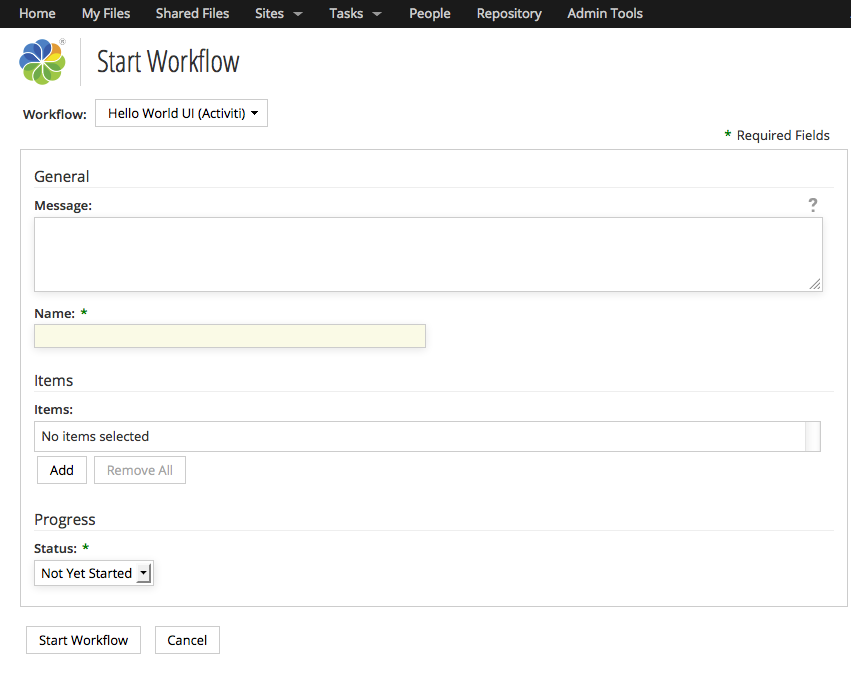
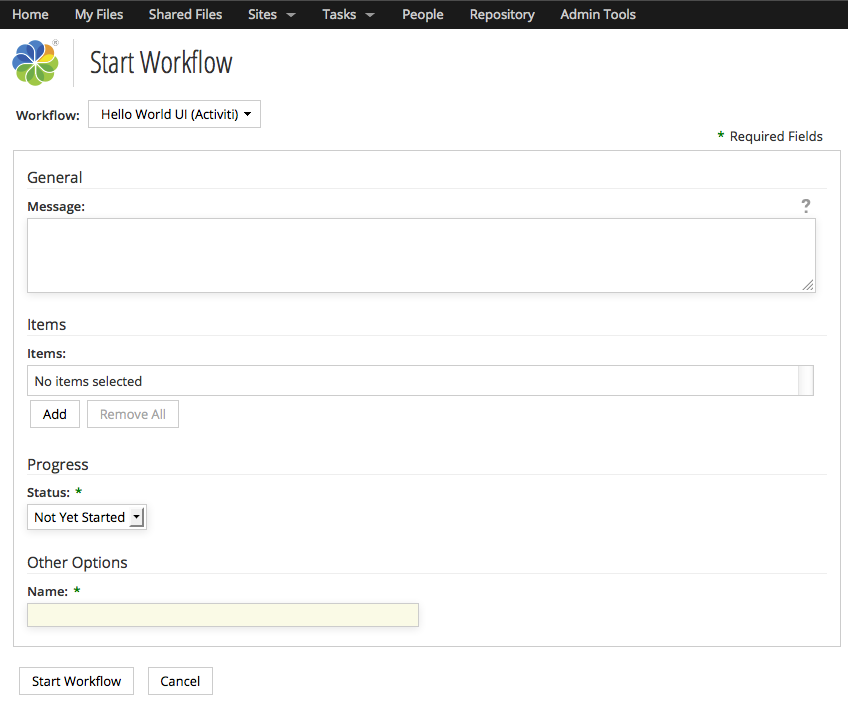
Fix the missing namespace from scwf:helloName in the share form config.

diff --git a/workflow/tutorial/tutorial.md b/workflow/tutorial/tutorial.md
@@ -614,7 +614,7 @@ In the META-INF directory, create a new file called "[share-config-custom.xml](h
                       </control>
                    </field>
                    <field id="packageItems" set="items" />
-                   <field id="helloName" set="other" />
+                   <field id="scwf:helloName" set="other" />
                    <field id="bpm:status" set="progress" />
                 </appearance>
              </form>
